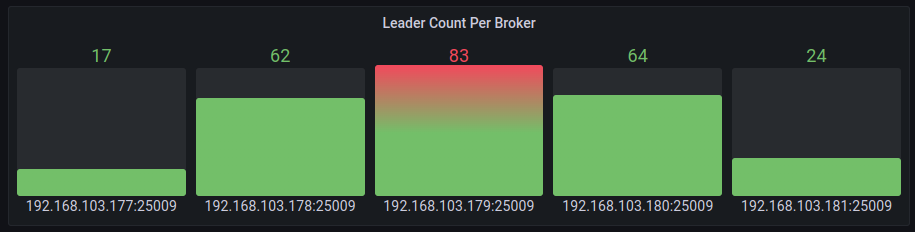
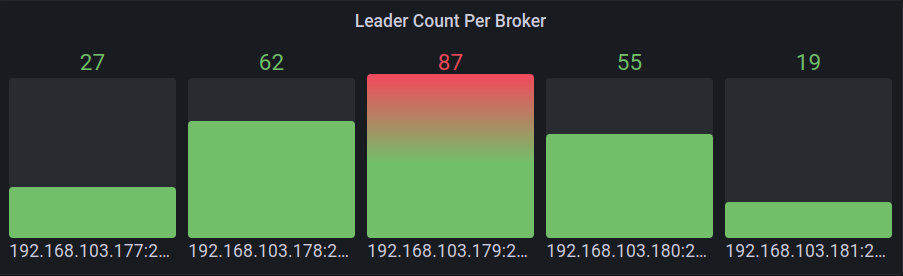
Revert "Redo balancer experiment at 5883c0d5f"
This reverts commit 387d19a3f940a2162166670ad7f2d473eb9e19d1.

diff --git a/docs/balancer/experiment_1.md b/docs/balancer/experiment_1.md
@@ -1,16 +1,16 @@
 # Astraea Balancer 測試 #1
 
-這個測試展示目前的 Astraea Balancer [(5883c0d)](https://github.com/skiptests/astraea/commit/5883c0d5fbfb178714a4b3ab375d264ffcf7408d) 
+這個測試展示目前的 Astraea Balancer [(7596f59)](https://github.com/skiptests/astraea/tree/7596f590ae0f0ec370a6e257c10cc2aeb5fb5bf4) 
 能在特定的系統環境中，平衡每個節點的 leader 數。
 
 在這次實驗中，Astraea Balancer 得到了以下結果：
 
-* 執行前節點的 Leader 數量最大最小分別為 83 和 17，執行後所有節點都服務 50 個 leader，達到完全平衡。
-* 執行前節點流量最大最小為 372 MiB/s 和 33.3 MiB/s，執行後各節點流量都控制在 210 MiB/s 附近。
+* 執行前節點的 Leader 數量最大最小分別為 77 和 9，執行後所有節點都服務 50 個 leader，達到完全平衡。
+* 執行前節點流量最大最小為 400 MiB/s 和 50 MiB/s，執行後各節點流量都控制在 250 MiB/s 附近。
 
 ## 測試情境
 
-我們透過專案內的 [WebAPI](https://github.com/skiptests/astraea/blob/5883c0d5fbfb178714a4b3ab375d264ffcf7408d/docs/web_server/web_api_topics_chinese.md#%E5%BB%BA%E7%AB%8B-topic)
+我們透過專案內的 [WebAPI](https://github.com/skiptests/astraea/blob/7596f590ae0f0ec370a6e257c10cc2aeb5fb5bf4/docs/web_server/web_api_topics_chinese.md#%E5%BB%BA%E7%AB%8B-topic)
 工具來對測試叢集產生一個 Leader 數量不平衡的情境。WebAPI 在建立 topic 時能夠透過特定參數來以 Binomial Distribution 營造 topic logs 
 在叢集內分佈不均的情況。這最終形成的分佈類似於對生產環境 Kafka 叢集不斷加減 topics/partitions/nodes 所導致的資料配置不均勻狀態。
 
@@ -61,9 +61,9 @@
 
 這個實驗中包含：
 
-* 5 個 Apache Kafka Broker 節點（version 3.3.1）。
+* 5 個 Apache Kafka Broker 節點（version 3.1.0）。
   * 各個節點包含 3 個 log dir，每個有 844GB 空間的 SSD
-* 1 個 Zookeeper 節點（version 3.8.0）。
+* 1 個 Zookeeper 節點（version 3.7.1）。
 * 1 個 Performance Tool 施打資料
 
 以下為建構環境的步驟：
@@ -71,8 +71,8 @@
 ### 建立 Kafka 叢集
 
 請依照上述的環境建立叢集，您可以使用專案內的 
-[./docker/start_zookeeper.sh](https://github.com/skiptests/astraea/blob/5883c0d5fbfb178714a4b3ab375d264ffcf7408d/docs/run_zookeeper.md) 和
-[./docker/start_broker.sh](https://github.com/skiptests/astraea/blob/5883c0d5fbfb178714a4b3ab375d264ffcf7408d/docs/run_kafka_broker.md) 來建立叢集。
+[./docker/start_zookeeper.sh](https://github.com/skiptests/astraea/blob/7596f590ae0f0ec370a6e257c10cc2aeb5fb5bf4/docs/run_zookeeper.md) 和
+[./docker/start_broker.sh](https://github.com/skiptests/astraea/blob/7596f590ae0f0ec370a6e257c10cc2aeb5fb5bf4/docs/run_kafka_broker.md) 來建立叢集。
 
 ## 效能資料攝取
 
@@ -81,9 +81,9 @@
 進行底層硬體效能資料的攝取。
 
 您可以使用專案內的 
-[./docker/start_node_exporter.sh](https://github.com/skiptests/astraea/blob/5883c0d5fbfb178714a4b3ab375d264ffcf7408d/docs/run_node_exporter.md),
-[./docker/start_prometheus.sh](https://github.com/skiptests/astraea/blob/5883c0d5fbfb178714a4b3ab375d264ffcf7408d/docs/run_prometheus.md) 和
-[./docker/start_grafana.sh](https://github.com/skiptests/astraea/blob/5883c0d5fbfb178714a4b3ab375d264ffcf7408d/docs/run_grafana.md) 來建構監控環境。
+[./docker/start_node_exporter.sh](https://github.com/skiptests/astraea/blob/7596f590ae0f0ec370a6e257c10cc2aeb5fb5bf4/docs/run_node_exporter.md),
+[./docker/start_prometheus.sh](https://github.com/skiptests/astraea/blob/7596f590ae0f0ec370a6e257c10cc2aeb5fb5bf4/docs/run_prometheus.md) 和
+[./docker/start_grafana.sh](https://github.com/skiptests/astraea/blob/7596f590ae0f0ec370a6e257c10cc2aeb5fb5bf4/docs/run_grafana.md) 來建構監控環境。
 
 本次實驗所使用的 Dashboard 可以在[這裡](resources/experiment_1_grafana-1663659783116.json)找到
 
@@ -94,7 +94,7 @@
 ```script
 git clone https://github.com/skiptests/astraea.git
 cd astraea
-git checkout 5883c0d5fbfb178714a4b3ab375d264ffcf7408d
+git checkout 7596f590ae0f0ec370a6e257c10cc2aeb5fb5bf4
 ```
 
 接著執行 Astraea Web Service，Astraea Web Service 提供一系列的功能，能幫助我們對 Kafka 進行管理和操作。
@@ -117,7 +117,7 @@ curl -X POST http://localhost:8001/topics \
 
 
 接着要開始對叢集輸入資料，我們在 P1 設備上執行下面的指令以啓動 
-[Astraea Performance Tool](https://github.com/skiptests/astraea/blob/5883c0d5fbfb178714a4b3ab375d264ffcf7408d/docs/performance_benchmark.md)
+[Astraea Performance Tool](https://github.com/skiptests/astraea/blob/7596f590ae0f0ec370a6e257c10cc2aeb5fb5bf4/docs/performance_benchmark.md)
 
 ```shell
 ./gradlew run --args="performance --bootstrap.servers <broker-addresses> --topics imbalance-topic --producers 8 --consumers 16 --key.size 10KiB --run.until 3h"
@@ -138,76 +138,19 @@ curl -X POST http://localhost:8001/topics \
 從圖中可以看出有一定的負載不平衡現象存在着。接着我們要開始做負載平衡，透過以下指令來執行 Leader Balance
 
 ```shell
-curl -X POST http://localhost:8001/balancer \
-    -H "Content-Type: application/json" \
-    -d '{ 
-      "timeout": "10s" ,
-      "balancer": "org.astraea.common.balancer.algorithms.GreedyBalancer",
-      "balancer-config": {
-        "shuffle.plan.generator.min.step": "1",
-        "shuffle.plan.generator.max.step": "5"
-      },
-      "costWeights": [ { "cost": "org.astraea.common.cost.ReplicaLeaderCost", "weight":  1} ],
-      "max-migrated-leader": "10"
-    }'
+./gradlew run --args="balance-demo --bootstrap.servers <broker-addresses>"
 ```
 
-上述指令對本機的 Web Service 發起一個 `POST /balancer` 的 HTTP Request，這個 Request 請 Web Service 根據我們給定的參數和
-目前叢集的狀態，去生成一個新的負載平衡計劃。以下是關於這個計劃的細節
+> 未來 Balancer 的運作和執行都會透過 Web API 來操作
 
-* `"timeout": "10s"`: 此計劃要在 10 秒內生成
-* `"balancer": "org.astraea.common.balancer.algorithms.GreedyBalancer"`:  計劃生成演算法實作
-* `"balancer-config": { ... }`: 計劃生成演算法的參數
-* `"costWeights": [ ... ]`: 計劃所採用的 Cost Functions，用來在生成算法中衡量叢集的好壞
-* `"max-migrated-leader": "10"`: 計劃的限制，最多只能移動 10 個 leader
-
-執行完成後後會在 terminal 上印出負載平衡計劃的編號：
-
-```shell
-# Something like this: {"id":"9b25bf14-a885-4c5b-97bf-59ff025b61d2"}
-{"id":"Your-Balance-Plan-Id"}
-```
-
-之後可以透過 `GET /balancer/Your-Balance-Plan-Id` 來查詢關於這個計劃的狀態，比如這個計劃是否生成完成，或是已經排程執行。
-
-```shell
-curl -X GET http://localhost:8001/balancer/46ecf6e7-aa28-4f72-b1b6-a788056c122a
-
-# {
-#   "id": "46ecf6e7-aa28-4f72-b1b6-a788056c122a", // 計劃的編號
-#   "generated": true,  // 計劃是否已經完成生成
-#   "scheduled": false, // 計劃是否已經排程執行
-#   "done": false,      // 計劃是否已經執行完成
-#   "report": { ... }   // 關於這個計劃的細節，計劃生成後才會有此詳細資訊
-# }
-```
-
-如果 `GET /balancer/Your-Balance-Plan-Id` 回傳結果中 `generated` 為 `true` 且 `report.changes` 內有詳細的移動資訊，則代表計劃已經完成生成。
-
-> 如果計劃生成失敗，可以檢查 `exception` 欄位的訊息，或是查看 Web Service 是否有印出錯誤的資訊，來做進一步的診斷。
-
-計劃成功生成後，可以透過 `PUT /balancer` 來執行負載平衡的計劃。
-
-```shell
-curl -X PUT http://localhost:8001/balancer \
-    -H "Content-Type: application/json" \
-    -d '{ "id": "Your-Balance-Plan-Id" }'
-```
-
-過程中可以透過 `GET /balancer/Your-Balance-Plan-Id` 來檢查執行的狀態，當輸出結果中的 `done` 為 `true` 時意味著計劃已經完成執行。
-
-> 如果計劃執行失敗，可以檢查 `exception` 欄位的訊息，或是查看 Web Service 是否有印出錯誤的資訊，來做進一步的診斷。
-
-> 詳細的 `/balancer` API 文件，可以參考[這裡](https://github.com/skiptests/astraea/blob/5883c0d5fbfb178714a4b3ab375d264ffcf7408d/docs/web_server/web_api_balancer_chinese.md)
-
-每次執行上述步驟都會做一輪的負載平衡，每次都會給叢集帶來一定程度的進步，通常情況下您會需要重複執行多次上述的指令，直到您覺得叢集負載不平衡情況減緩爲止。
-這次實驗中我們總共執行了 8 次 Balancer。以下爲各項結果圖表：
+每次執行都會做一輪的負載平衡，每次都會給叢集帶來一定程度的進步，通常情況下您會需要重複執行多次上述的指令，直到您覺得叢集負載不平衡情況減緩爲止。
+這次實驗中我們總共執行了 9 次 Balancer。以下爲各項結果圖表：
 
 ### Leader Count Time Series
 
 ![leader count](resources/experiment_1_7.png)
 
-上圖爲各節點的 leader 數量隨時間的變化，可以發現在經過 8 次負載平衡後，每個節點所維護的 leader 數量都達到 50 個，就這個指標來說非常平衡。
+上圖爲各節點的 leader 數量隨時間的變化，可以發現在經過 9 次負載平衡後，每個節點所維護的 leader 數量都達到 50 個，就這個指標來說非常平衡。
 
 > 先前用 web service 建立的 `imbalance-topic` 有著 200 個 partitions，而 consumer 運作所需的 `__consumer_offsets` 另外貢獻 50 個
 > partitions。兩者加起來正好 50 * 5 = 250 個 partitions，分散在五個節點上。
@@ -230,7 +173,7 @@ curl -X PUT http://localhost:8001/balancer \
 
 ![ongoing reassignment bandwidth](resources/experiment_1_6.png)
 
-上圖爲各各節點所統計的負載平衡流量，每次負載平衡都會給叢集帶來額外的效能開銷，從圖中可以看到我們總共經歷了 8 次的負載平衡過程。
+上圖爲各各節點所統計的負載平衡流量，每次負載平衡都會給叢集帶來額外的效能開銷，從圖中可以看到我們總共經歷了 9 次的負載平衡過程。
 
 ### Network IO (hardware)
 
